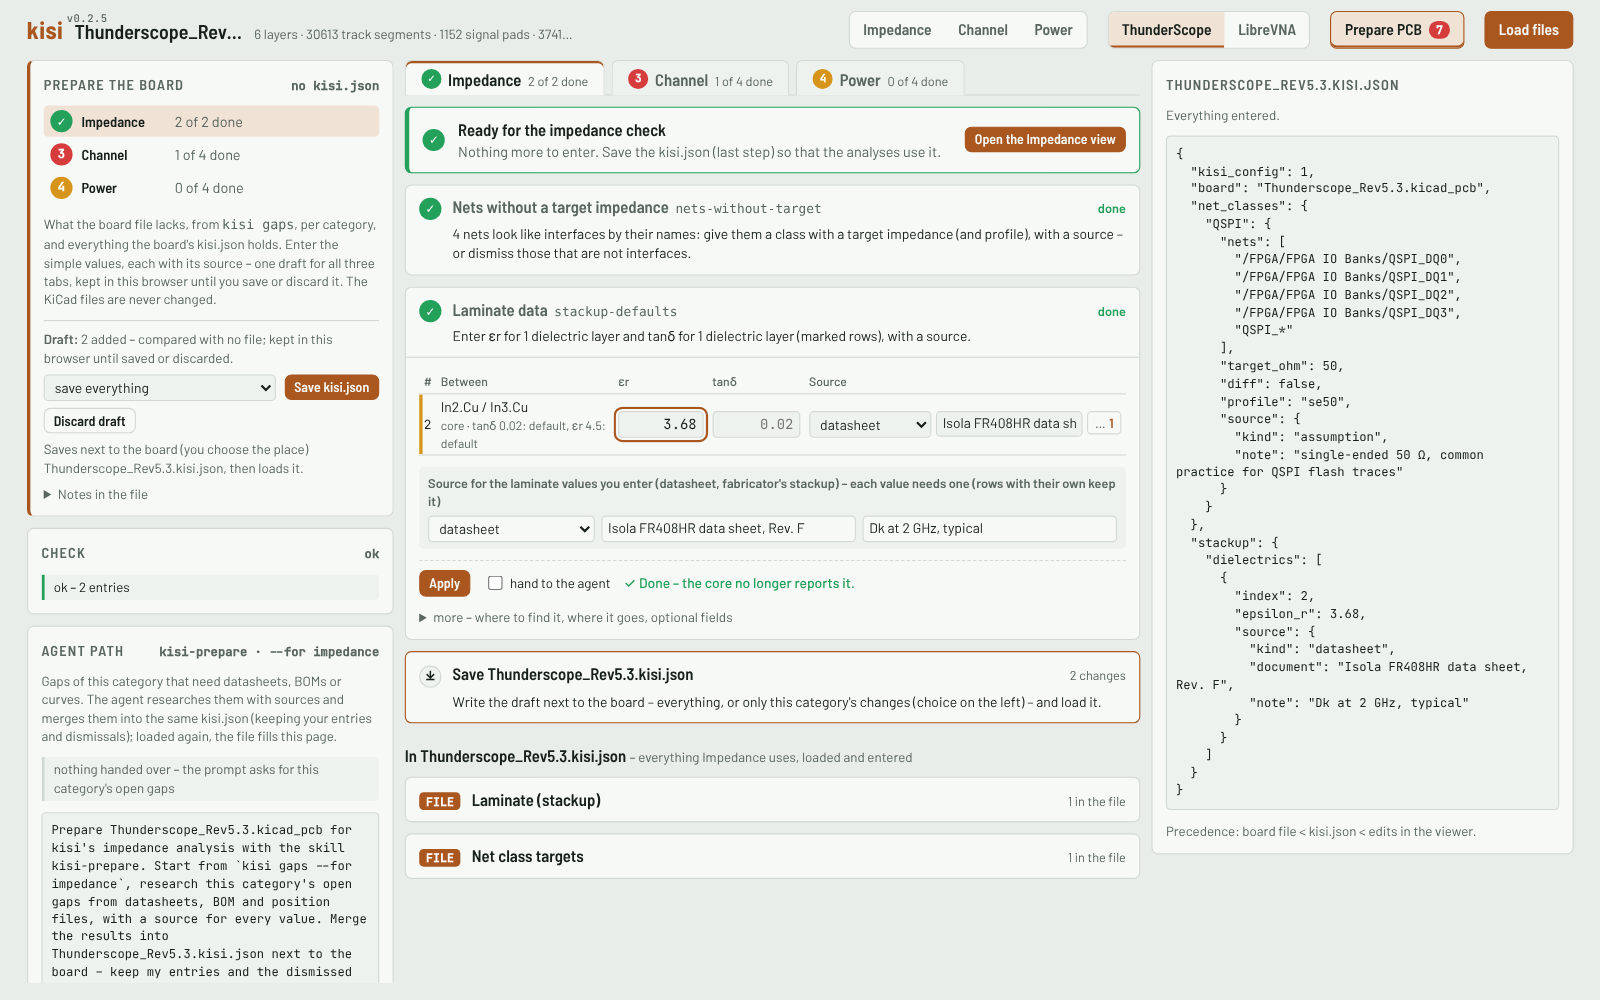
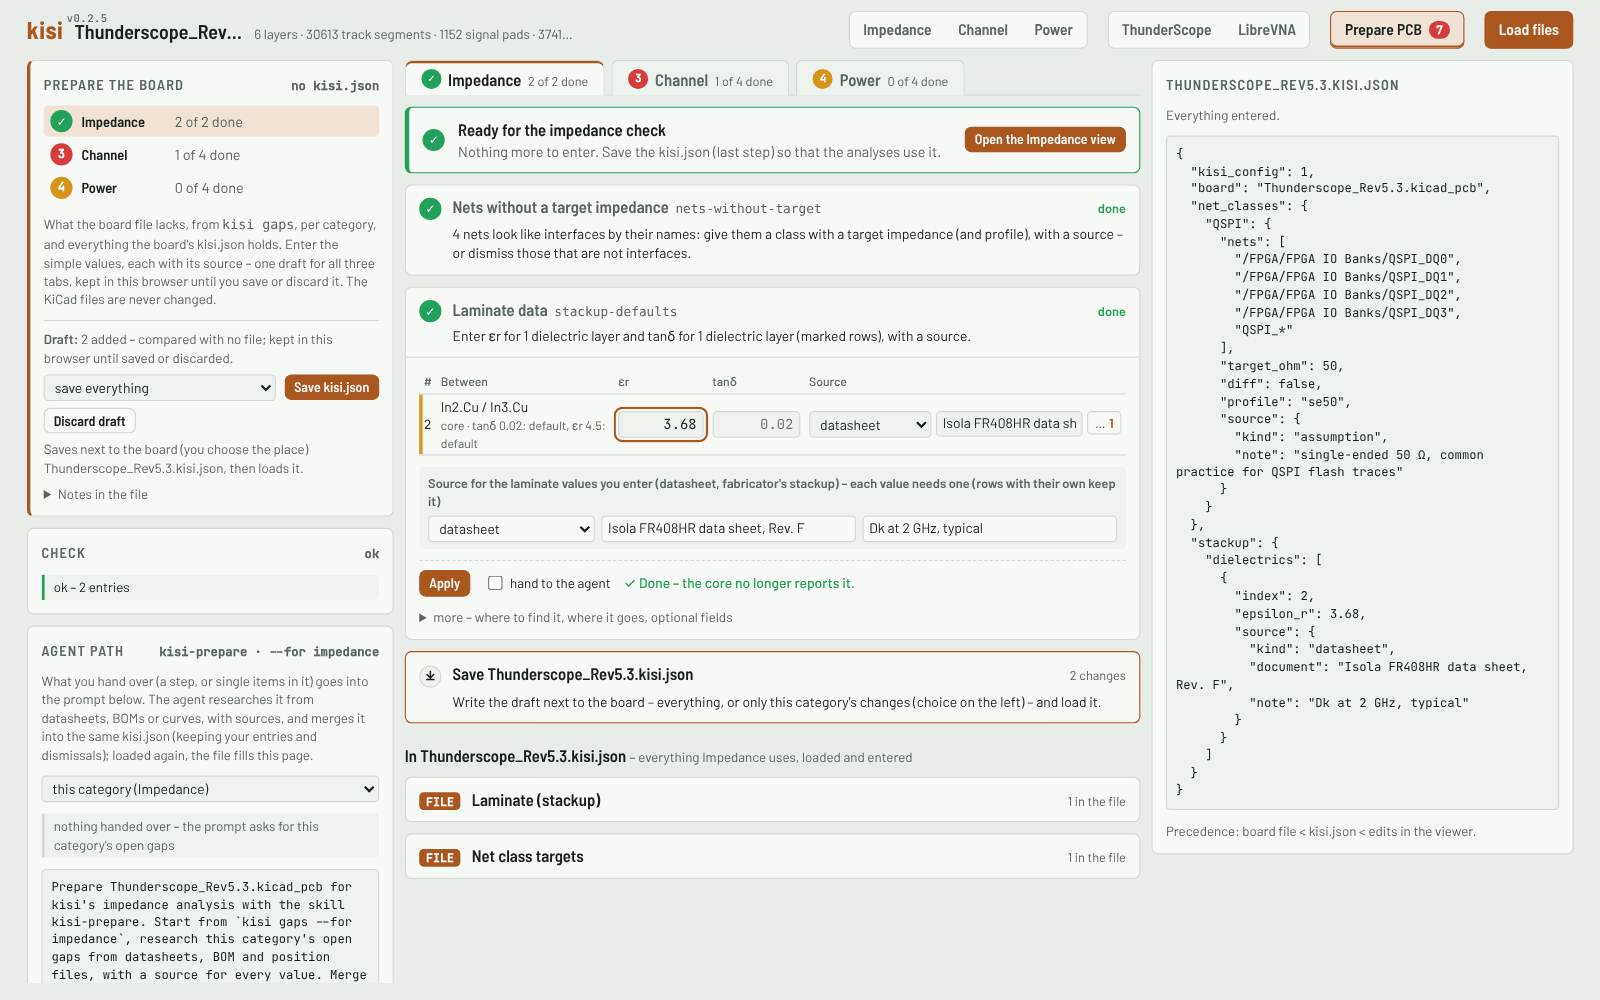
docs/img/prepare.png: the agent card with its scope choice
The image shows the agent card as it is now (what is handed over goes into
the prompt; this category or all categories). screenshots.py loads the bare
board like a dropped file, so no example button shows as pressed.

Changed region(s): [[0.0312, 0.682, 0.2188, 0.992], [0.6875, 0.0, 0.7812, 0.062]]

diff --git a/tools/screenshots.py b/tools/screenshots.py
@@ -43,7 +43,8 @@ with sync_playwright() as p:
         def commit(sel, v):
             pg.fill(sel, v); pg.dispatch_event(sel, "change"); tick()
         pg.evaluate("""async () => { for (const k of Object.keys(localStorage)) if (k.startsWith('kisi.prep.v1.')) localStorage.removeItem(k);
-          S.prep.mem = {}; const s = SAMPLES.ts; const [a, c] = await Promise.all([gunzipB64(s.pcb), gunzipB64(s.pro)]); await loadFiles(a, c, s.file || s.name, null, null); }""")
+          S.prep.mem = {}; S.sample = null; for (const k of ['ts', 'vna']) document.getElementById('sample-' + k).setAttribute('aria-pressed', 'false');
+          const s = SAMPLES.ts; const [a, c] = await Promise.all([gunzipB64(s.pcb), gunzipB64(s.pro)]); await loadFiles(a, c, s.file || s.name, null, null); }""")
         pg.wait_for_function(f"S.scene && {BUSY} && S.prep.base", timeout=120000); idle()
         pg.click("#prep-btn"); pg.click('#prep-tabs [data-prep-tab="impedance"]'); pg.wait_for_timeout(300)
         g = 'article[data-gap="nets-without-target"]'
